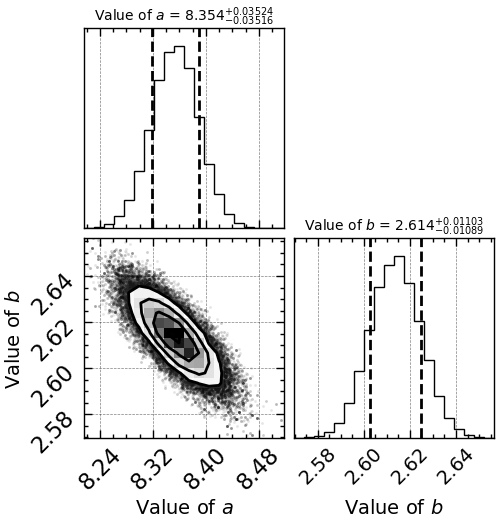
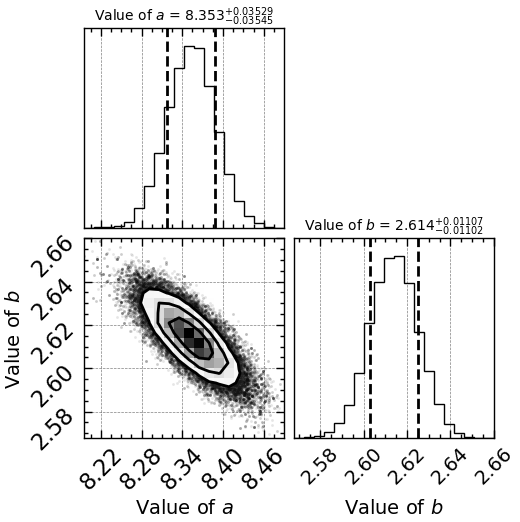
Log likelihood refactor

Changed region(s): [[0.0, 0.0, 1.0, 1.0], [0.0, 0.705, 0.0601, 0.7356]]

diff --git a/data_fitter.py b/data_fitter.py
@@ -10,6 +10,50 @@ Created on Mon Mar 13 2023
 # Import numpy with np alias for array manipulation
 import numpy as np
 
+# %% Log likelihood function repo
+# Log likelihood function generator
+def log_ll(data_x, data_y, param, model="Linear"):
+    """
+    Parameters
+    ----------
+    data_x : array
+        Data x array.
+    data_y : array
+        Data y array.
+    param : tuple
+        Fit model parameters tuple.
+    model : string
+        Model selector string, defaul at "Linear".
+
+    Returns
+    -------
+    log likelihood function
+        Callable log likelihood calculation.
+    """
+    # Model selection
+    # Select linear model
+    if model == "Linear":
+        # Local varible repo
+        param_a, param_b = param
+        # Generate linear model
+        fit_model = param_a + param_b * data_x
+    # Select quadratic model
+    elif model == "Quadratic":
+        # Local varible repo
+        param_a, param_b, param_c = param
+        # Generate quadratic model
+        fit_model = param_a + param_b * data_x + param_c * data_x**2
+
+    # Get stdev of residuals
+    fit_sigma = np.std(data_y - fit_model)
+    
+    # Return callable linear log likelihood calculation result
+    return -0.5 * np.sum(
+        ((data_y - fit_model) ** 2) / (2 * fit_sigma**2)
+        + np.log(2 * np.pi * fit_sigma**2)
+    )
+
+
 # %% Linear least squares fitter
 # Linear ordinary least squares fitter
 def linear_ls(data_x, data_y):
@@ -101,33 +145,6 @@ def linear_ls(data_x, data_y):
     return result
 
 
-# %% Log likelihood function repo
-# Linear log likelihood function generator
-def linear_ll(data_x, data_y, param_a, param_b):
-    """
-    Parameters
-    ----------
-    param_a : float
-        Linear fit model parameter, intercept.
-    param_b : float
-        Linear fit model parameter, slope.
-
-    Returns
-    -------
-    log likelihood function
-        Callable log likelihood calculation.
-    """
-    # Generate linear model y = a+b*x
-    fit_model = param_a + param_b * data_x
-    # Get stdev of residuals
-    fit_sigma = np.std(data_y - fit_model)
-    # Return callable linear log likelihood calculation result
-    return -0.5 * np.sum(
-        ((data_y - fit_model) ** 2) / (2 * fit_sigma**2)
-        + np.log(2 * np.pi * fit_sigma**2)
-    )
-
-
 # %% Maximum likelihood fitter
 # Linear maximum likelihood fitter
 def linear_ml(data_x, data_y, fit_param):
@@ -157,7 +174,7 @@ def linear_ml(data_x, data_y, fit_param):
         # Loop with list comprehension
         [
             # Cache log likelihood value of a, b pair
-            linear_ll(data_x, data_y, data_a[i], data_b[j])
+            log_ll(data_x, data_y, (data_a[i], data_b[j]), "Linear")
             # Loop through entries of a
             for i in range(len(data_a))
             # Loop through entries of b
@@ -198,7 +215,7 @@ def linear_ml(data_x, data_y, fit_param):
 
 # %% Metropolis - MCMC
 # Linear MCMC function
-def linear_mcmc(data_x, data_y, fit_ref):
+def mcmc_fitter(data_x, data_y, fit_ref):
     """
     Parameters
     ----------
@@ -241,7 +258,7 @@ def linear_mcmc(data_x, data_y, fit_ref):
     # Initialize log likelihood and deposit results and a, b pairs
     data_ll[0], data_mcmc[0] = (
         # Calculate initial log likelihood from initial a, b entries
-        linear_ll(data_x, data_y, data_a[0], data_b[0]),
+        log_ll(data_x, data_y, (data_a[0], data_b[0]), "Linear"),
         # Deposit initial a, b pair to mcmc chain
         (data_a[0], data_b[0]),
     )
@@ -254,7 +271,7 @@ def linear_mcmc(data_x, data_y, fit_ref):
             data_b[i - 1] + fit_sigma[1] * np.random.randn(1),
         )
         # Get temp log likelihood from temp a, b
-        temp_ll = linear_ll(data_x, data_y, temp[0], temp[1])
+        temp_ll = log_ll(data_x, data_y, (temp[0], temp[1]), "Linear")
 
         # Ratio analysis
         # Generate ratio from ll

diff --git a/main.py b/main.py
@@ -16,7 +16,7 @@ from data_reader import file_loader
 # Module linear_ls performs linear least squares fitting
 # Module linear_ml performs linear maximum likelihood fitting
 # Module linear_mcmc performs MCMC on a linear model
-from data_fitter import linear_ls, linear_ml, linear_mcmc
+from data_fitter import linear_ls, linear_ml, mcmc_fitter
 
 # Custom data plotter module
 # Module baysian_plotter generates the plot for 1.2
@@ -43,6 +43,6 @@ baysian_plotter(res_linear_ml)
 
 # %% 1.3 - MCMC linear fit with corner plot
 # Deposit mcmc data with linear ls fit result as intial guesses
-res_linear_mcmc = linear_mcmc(data_x1, data_y1, res_linear_ls)
+res_linear_mcmc = mcmc_fitter(data_x1, data_y1, res_linear_ls)
 # Generate mcmc corner plot
 linear_mcmc_plotter(res_linear_mcmc)
